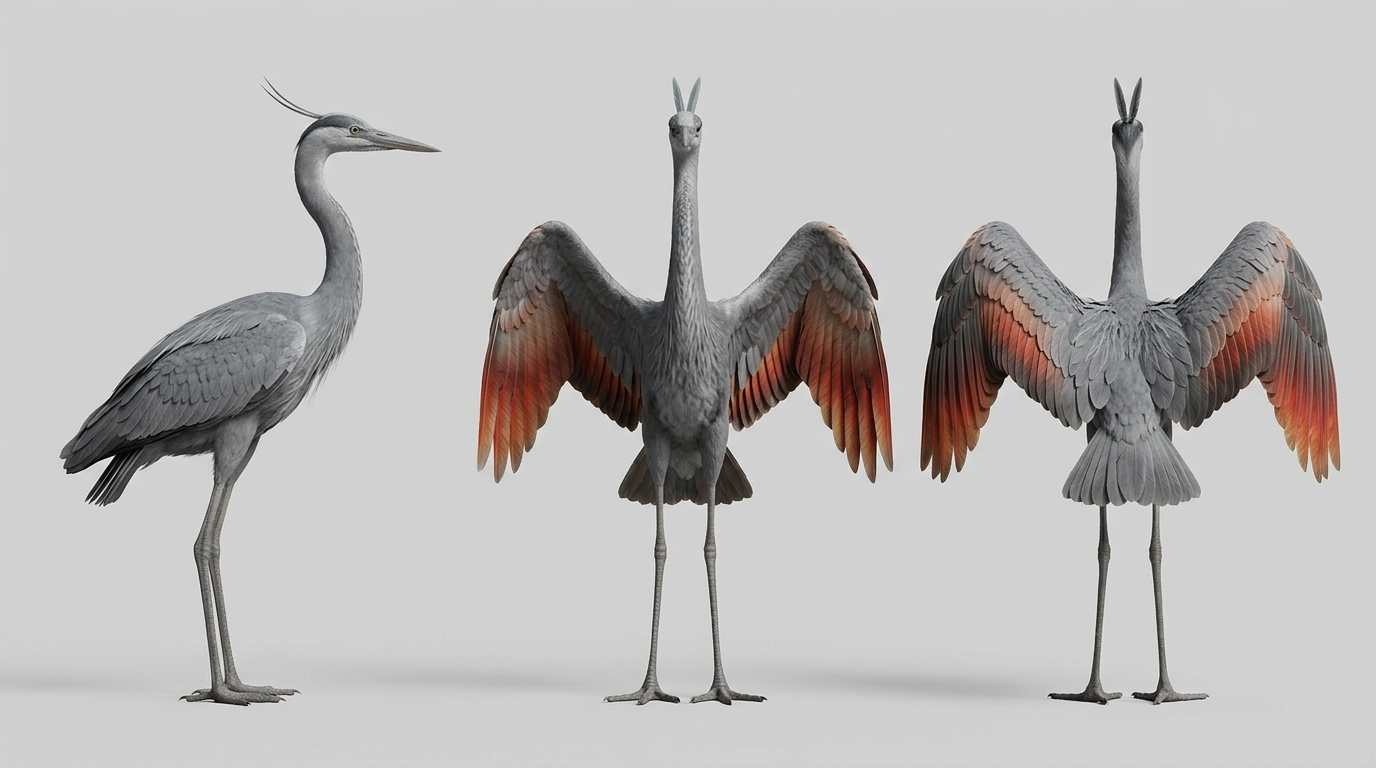
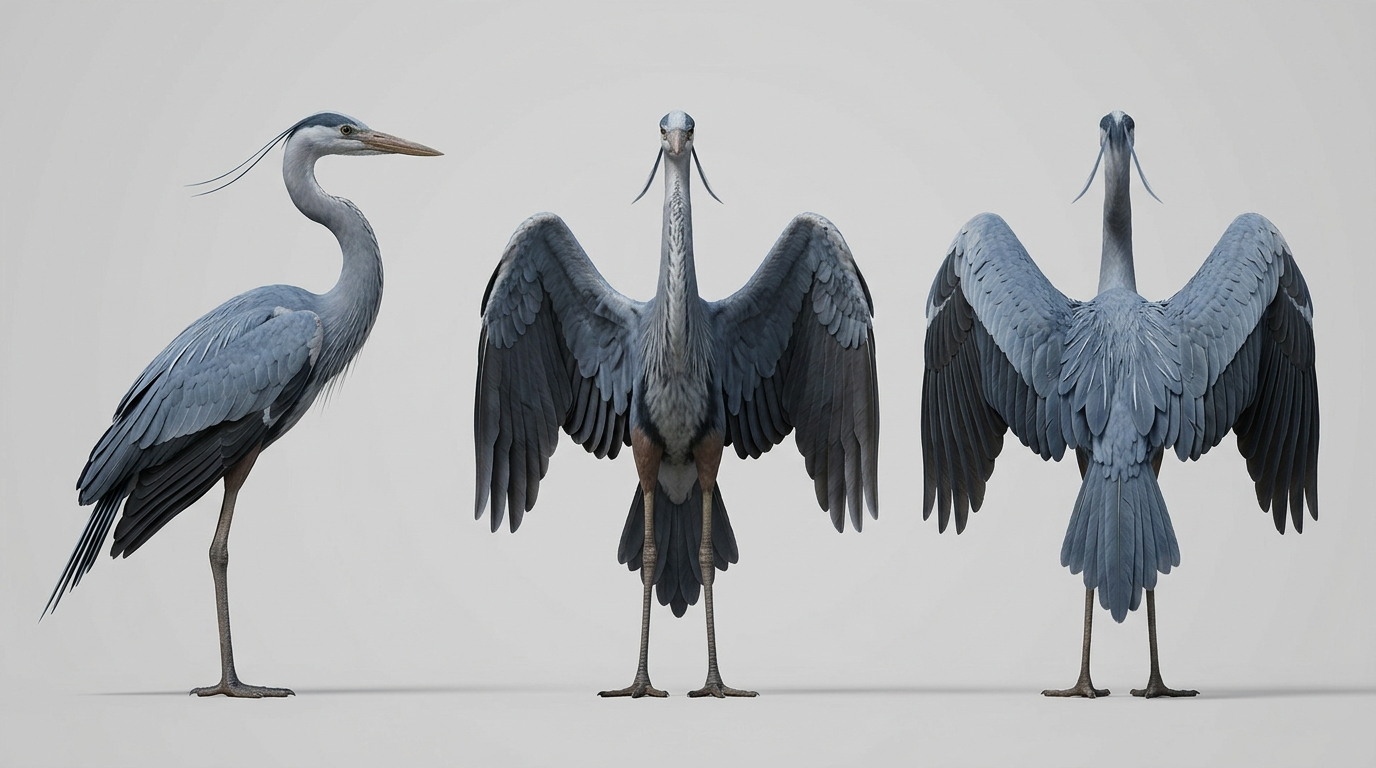
Use the chosen Bennu samples for the Bennu line
From five alternative sheets made to compare with the first Bennu, the
line now runs from the heron of the tomb paintings (tier 1), through the
heron with fire-coloured wing tips that was the first tier before
(tier 2), to the firebird with ember-red plumage and flames at the
feather tips (tier 3). The atef crown of the old tiers 2 and 3 goes.

The three were made separately rather than from the first tier, so the
roster describes each whole bird and tiers 2 and 3 set tier1=False; the
manifest records the prompts the generator builds for them, so a run
keeps these sheets.

Claude-Session: https://claude.ai/code/session_014VBYXxiG2Wapix7xffbVix

Changed region(s): [[0.3438, 0.0938, 1.0, 0.9375], [0.0312, 0.125, 0.3125, 0.9375], [0.625, 0.875, 0.6875, 0.9062]]

diff --git a/tools/refs/roster.py b/tools/refs/roster.py
@@ -182,13 +182,19 @@ ROSTER = [
     dict(id='anubite-3', faction='egypt', kind='figure', name='Elite Anubite Warden', subject=(
         'The jackal-headed guardian at its grandest: a gilded scale corselet, a broad collar of gold and lapis lazuli, '
         'a single khopesh with a gilded blade in the right hand and a was-sceptre in the left; nothing else in the hands.')),
+    # The Bennu's tiers were chosen from separate samples, so each describes the whole bird: the heron of the
+    # tomb paintings, the heron with fire-coloured wing tips, and the firebird with burning feathers.
     dict(id='bennu-1', faction='egypt', kind='flyer', name='Bennu Firebird', subject=(
+        'The Bennu bird of Heliopolis as the vignettes of the Book of the Dead paint it, made real: a giant grey '
+        'heron about 2 m tall, slender, with blue-grey plumage, a long neck held in an S, long legs, and a crest of two long '
+        'thin plumes streaming back from the head; dark flight feathers, no other colours.')),
+    dict(id='bennu-2', faction='egypt', kind='flyer', name='Veteran Bennu Firebird', tier1=False, subject=(
         'The Bennu bird of Heliopolis, a giant heron about 2 m tall as tomb paintings show it: long legs and neck, a '
         'two-feathered crest, grey plumage that shades to fiery red and orange at the wing tips (colour only, no flames).')),
-    dict(id='bennu-2', faction='egypt', kind='flyer', name='Veteran Bennu Firebird', subject=(
-        'A larger Bennu heron wearing the white atef crown with its two plumes, its plumage red-gold across the wings.')),
-    dict(id='bennu-3', faction='egypt', kind='flyer', name='Elite Bennu Firebird', subject=(
-        'The greatest Bennu heron: the atef crown edged in gold, gold and crimson plumage, a long trailing crest.')),
+    dict(id='bennu-3', faction='egypt', kind='flyer', name='Elite Bennu Firebird', tier1=False, subject=(
+        'The Bennu firebird of Heliopolis: a giant heron about 2 m tall with long legs and neck and a two-feathered '
+        'crest, grey on the head and neck, its body and wings glowing ember-red and orange like coals, with small flames '
+        'licking from the tips of the wing and tail feathers.')),
     dict(id='sphinx-1', faction='egypt', kind='beast', name='Sphinx', subject=(
         'A living Egyptian sphinx about 3.5 m long: a tawny lion\'s body and the head of a man wearing the nemes '
         'headcloth striped in plain ochre and cream like the Great Sphinx of Giza, with no cobra on the brow, and a '
